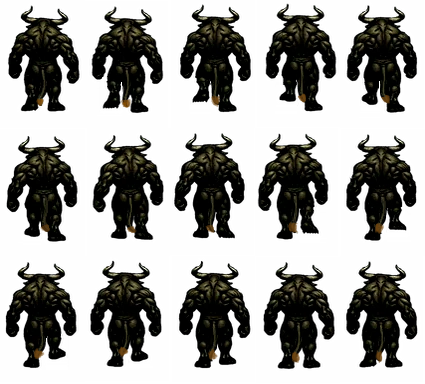
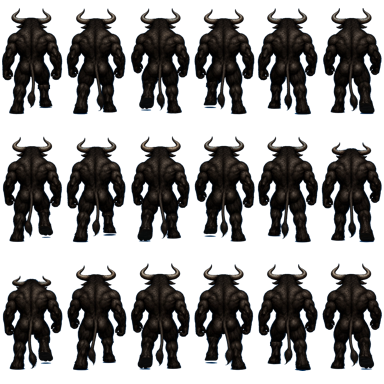
minotauro update

diff --git a/assets/geometria/data/historia_geometria.js b/assets/geometria/data/historia_geometria.js
@@ -1729,80 +1729,49 @@ window.SOFIA_CASTILLO_FINAL_STORY = {
       dialogs: [
         {
           speaker: "Nico",
-          text: "Sofía... el castillo ya no se siente igual. Ya no parece un caos matemático.",
+          text: "Sofía... la puerta está abierta.",
           stage: { focus: "Nico" },
         },
         {
           speaker: "Sofia",
-          text: "Cuando llegaste, todo aquí estaba lleno de ruido, confusión y miedo.",
-          stage: { focus: "Sofia" },
-        },
-        {
-          speaker: "Sofia",
-          text: "Ahora está en calma. No porque los retos hayan desaparecido... sino porque tú ya no los miras igual.",
+          text: "Sí. El castillo reconoció los libros que reuniste.",
           stage: { focus: "Sofia" },
         },
         {
           speaker: "Nico",
-          text: "Al principio sentía que todo me rebasaba. Que si me equivocaba, ya no podría seguir.",
+          text: "¿Entonces ese era el camino desde el principio?",
           stage: { focus: "Nico" },
         },
         {
           speaker: "Sofia",
-          text: "Y aun así seguiste.",
+          text: "No exactamente. La puerta siempre estuvo ahí. Lo que faltaba era que pudieras llegar hasta ella.",
           stage: { focus: "Sofia" },
         },
         {
+          speaker: "Nico",
+          text: "Siento como si algo me estuviera llamando del otro lado.",
+          stage: { focus: "Nico" },
+        },
+        {
           speaker: "Sofia",
-          text: "La práctica no borra el miedo de un momento a otro. Pero ordena la mente... y poco a poco le quita fuerza.",
+          text: "Entonces vamos, no lo hagas esperar.",
           stage: { focus: "Sofia" },
+        },
+        {
+          speaker: "Nico",
+          text: "¿Vendrás conmigo?",
+          stage: { focus: "Nico" },
+        },
+        {
+          speaker: "Sofia",
+          text: "Hasta aquí puedo acompañarte. La puerta tienes que cruzarla tú.",
+          stage: { focus: "Sofia" },
+        },
+        {
+          speaker: "Nico",
+          text: "Gracias, Sofía.",
+          stage: { focus: "Nico" },
         },        
-        {
-          speaker: "Sofia",
-          text: "Los libros que llevas contigo no son solo un premio. Son la huella de todo lo que lograste comprender en el camino.",
-          stage: { focus: "Sofia" },
-        },
-        {
-          speaker: "Nico",
-          text: "Escucho que me llaman... creo que ya debo irme.",
-          stage: { focus: "Nico" },
-        },
-        {
-          speaker: "Sofia",
-          text: "Entonces llegó el momento.",
-          stage: { focus: "Sofia" },
-        },
-        {
-          speaker: "Nico",
-          text: "¿Si entro al castillo voy a despertar?",
-          stage: { focus: "Nico" },
-        },
-        {
-          speaker: "Sofia",
-          text: "Tal vez. Pero no subestimes a los sueños. A veces ayudan a ordenar lo que parecía imposible.",
-          stage: { focus: "Sofia" },
-        },
-        {
-          speaker: "Nico",
-          text: "No sé si voy a recordar todo esto.",
-          stage: { focus: "Nico" },
-        },
-        {
-          speaker: "Sofia",
-          text: "No necesitas recordarlo todo. Basta con que no olvides que pudiste avanzar.",
-          stage: { focus: "Sofia" },
-        },
-        {
-          speaker: "Nico",
-          text: "Entonces... ya me tengo que ir.",
-          stage: { focus: "Nico" },
-        },
-        {
-          speaker: "Sofia",
-          text: "Ve, Nico. La salida de este mundo está ahí. Pero lo que ganaste aquí puede seguir contigo.",
-          stage: { focus: "Sofia" },
-          choices: [{ text: "Entrar al castillo", next: "final_video" }],
-        },
       ],
     },
 

diff --git a/js/areas/algebra/niveles/sustituirYEvaluarScene.js b/js/areas/algebra/niveles/sustituirYEvaluarScene.js
@@ -73,7 +73,7 @@ class SustituirYEvaluarScene extends Scene {
       timer: 0,
       sheets: {
         front: { key: "minotauro_enemy_front", cols: 15, rows: 1, img: null, w: 0, h: 0 },
-        back: { key: "minotauro_enemy_back", cols: 5, rows: 3, img: null, w: 0, h: 0 },
+        back: { key: "minotauro_enemy_back", cols: 6, rows: 3, img: null, w: 0, h: 0 },
         side: { key: "minotauro_enemy_side", cols: 5, rows: 3, img: null, w: 0, h: 0 },
       },
     };

diff --git a/js/areas/algebra/niveles/BalanzaScene.js b/js/areas/algebra/niveles/BalanzaScene.js
@@ -1522,7 +1522,7 @@
       ctx.textAlign = "center";
       ctx.fillText("¡Bien hecho!", x + w / 2, y + 70);
       ctx.font = "18px Arial";
-      ctx.fillText("Presiona Enter, espacio ó haz clic para volver", x + w / 2, y + 120);
+      ctx.fillText("Presiona Enter, espacio o haz clic para volver", x + w / 2, y + 120);
       ctx.fillText(`Hojas ganadas: ${this.sheetsReward}.`, x + w / 2, y + 152);
       ctx.restore();
     }
